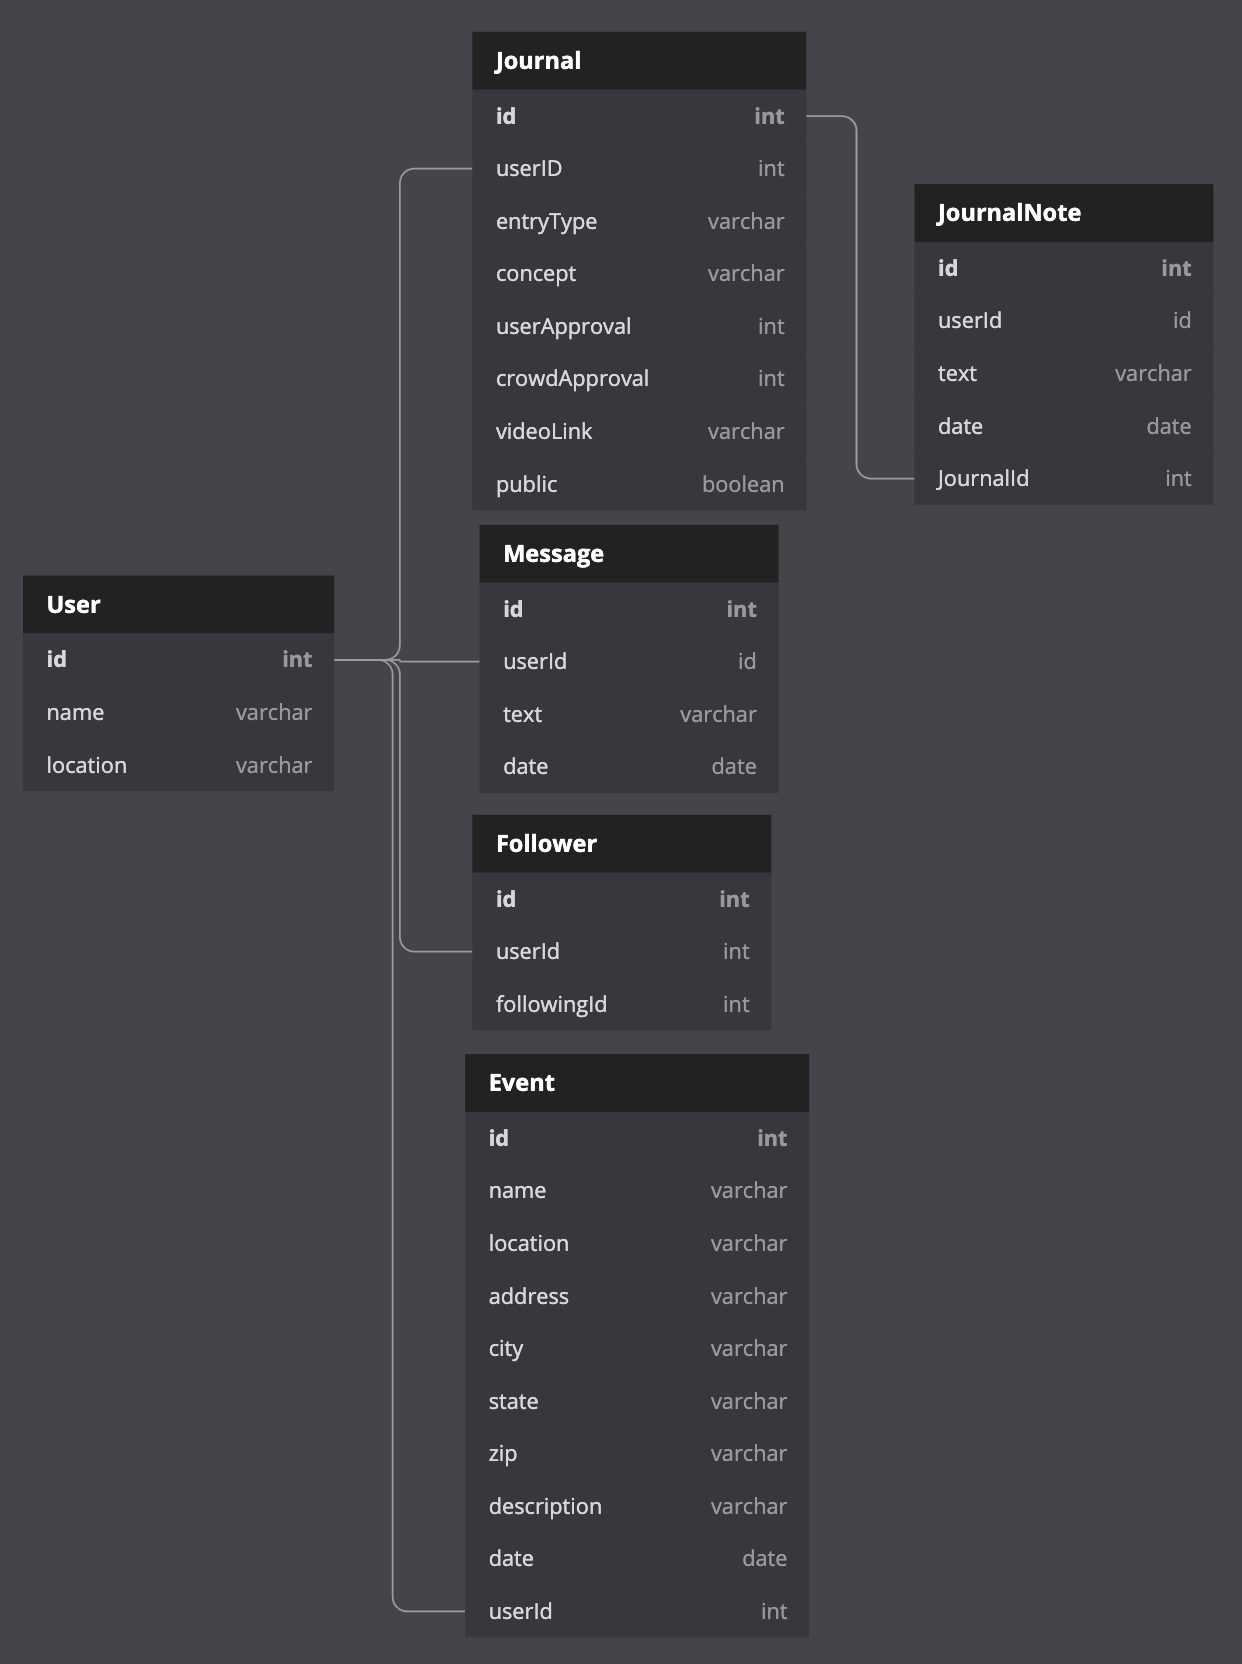
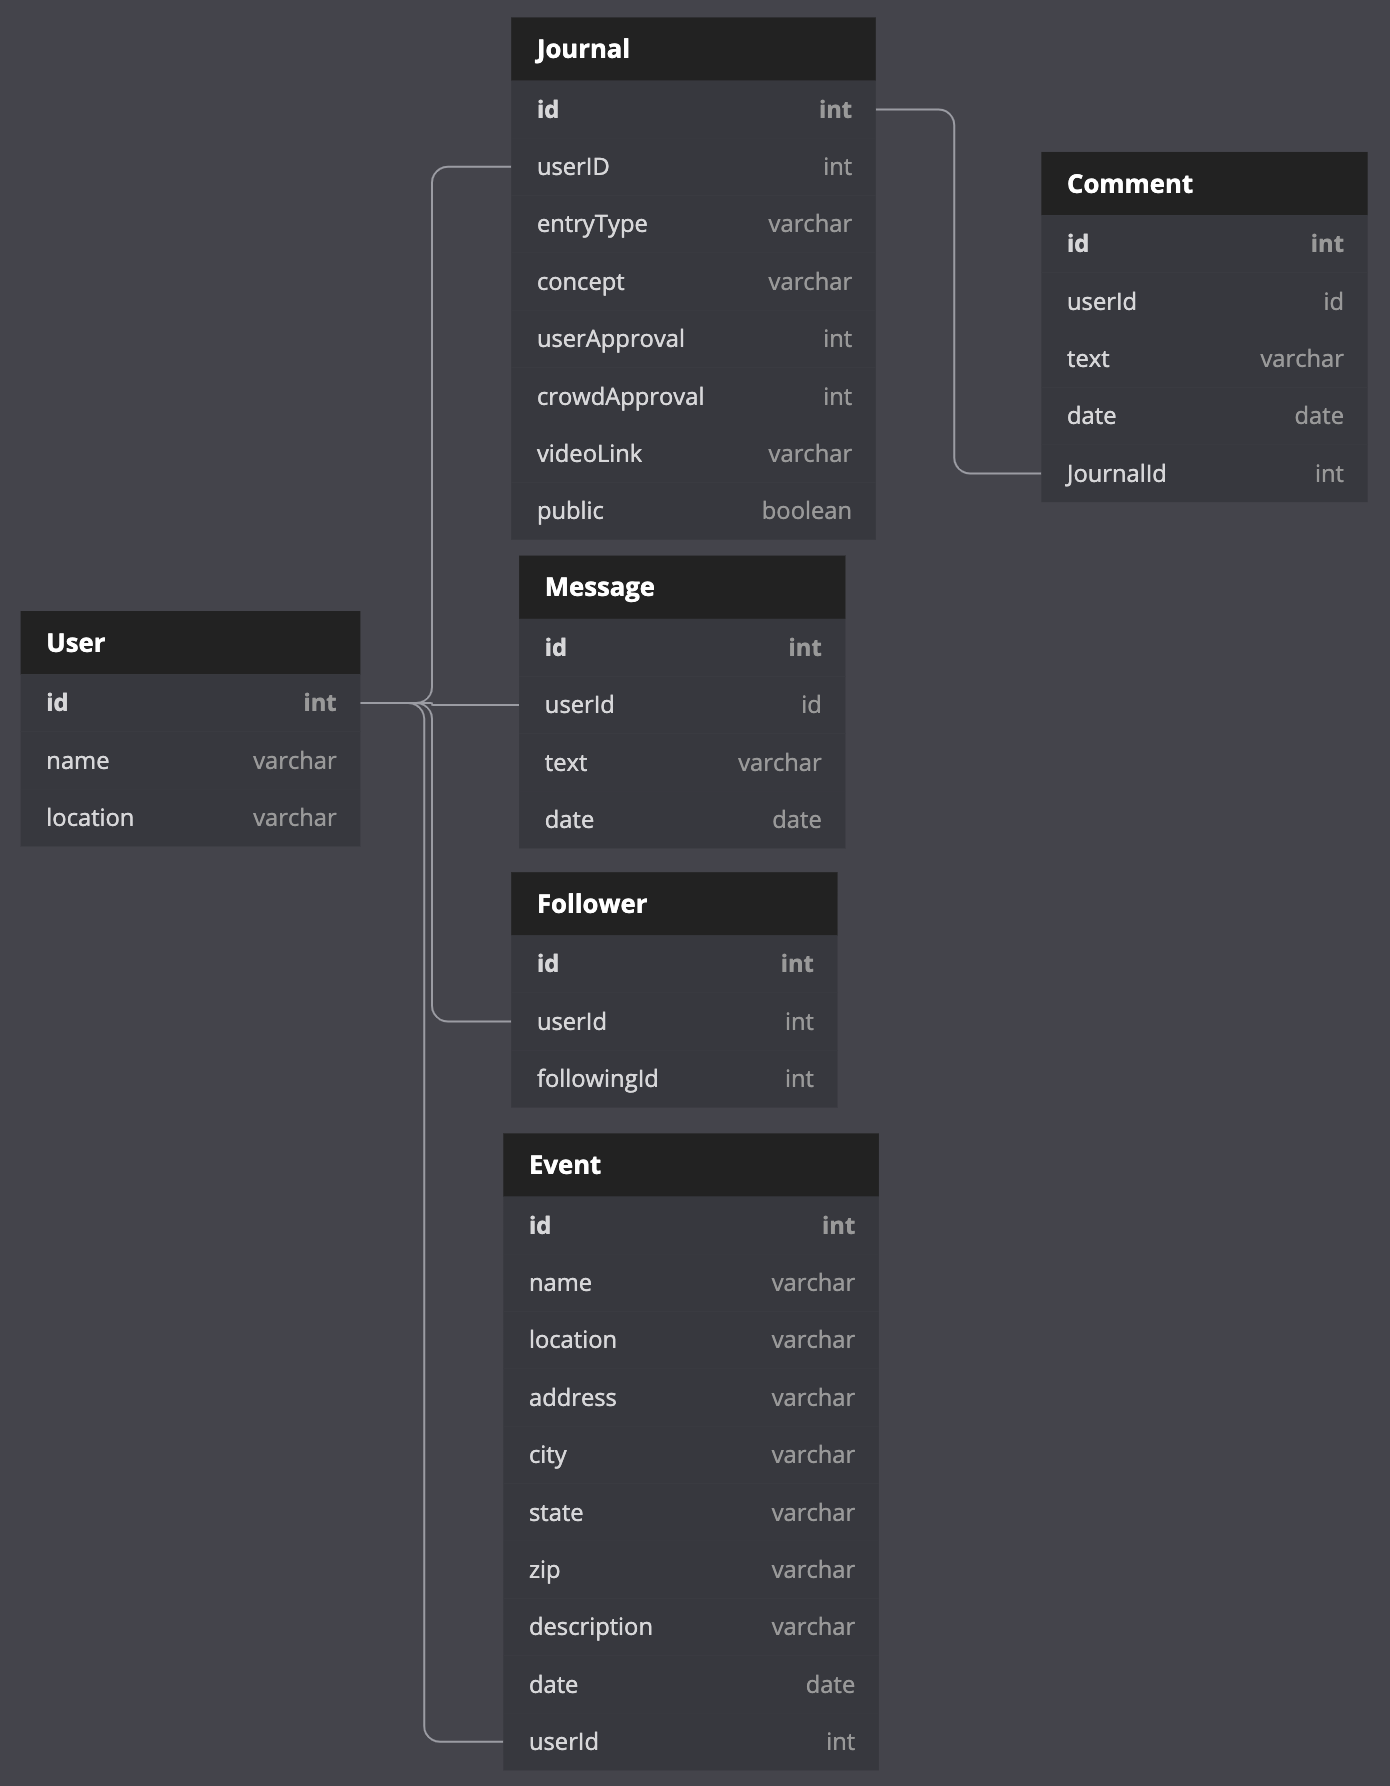
comments showing, showing too many times, though

diff --git a/src/components/journal/CommentForm.js b/src/components/journal/CommentForm.js
@@ -1,29 +1,30 @@
-import React, { useContext, useEffect, useState } from "react"
+import React, { useContext, useEffect, useRef, useState } from "react"
 import { useHistory, useParams } from "react-router-dom"
 import { Button, Form, Label, TextArea } from "semantic-ui-react"
 import { CommentContext } from "./CommentProvider"
 
 export const CommentForm = (props) => {
-    const {addComment, getCommentById, updateComment} = useContext(CommentContext)
+    const { addComment, getCommentById, updateComment } = useContext(CommentContext)
 
     const [comment, setComment] = useState({})
-    const [isLoading, setIsLoading] = useState(true)
+    const [isLoading, setIsLoading] = useState(true);
 
-    const { commentId } = useParams()
-    const history = useHistory()
+    const { commentId } = useParams();
+    const history = useHistory();
 
-    const HandleControlledInputChange = (event) => {
-        const newComment = {...comment}
+    const handleControlledInputChange = (event) => {
+        const newComment = { ...comment }
         newComment[event.target.name] = event.target.value
+        setComment(newComment)
     }
 
     useEffect(() => {
-        if (commentId){
+        if (commentId) {
             getCommentById(commentId)
-            .then(comment => {
-                setComment(comment)
-                setIsLoading(false)
-            })
+                .then(comment => {
+                    setComment(comment)
+                    setIsLoading(false)
+                })
         } else {
             setIsLoading(false)
         }
@@ -46,7 +47,7 @@ export const CommentForm = (props) => {
                     second: '2-digit'
                 }).format(Date.now())
             })
-            .then(() => history.push(`/journals/detail/${comment.id}`))
+            .then(() => history.push(`/comments/detail/${comment.id}`))
         } else {
             addComment({
                 userId: userId,
@@ -60,7 +61,7 @@ export const CommentForm = (props) => {
                     second: '2-digit'
                 }).format(Date.now())
             })
-            .then(() => history.push("comments"))
+            .then(() => history.push(`/comments`))
         }
     }
 
@@ -72,7 +73,7 @@ export const CommentForm = (props) => {
                     <Label htmlFort="text">Comment:</Label>
                     <TextArea type="text" id="commentText" name="text" required autoFocus className="form-control"
                         placeholder="Comment here..."
-                        onChange={HandleControlledInputChange}
+                        onChange={handleControlledInputChange}
                         defaultValue={comment.text} />
                 </div>
             </Form.Field>

diff --git a/src/components/ApplicationView.js b/src/components/ApplicationView.js
@@ -6,6 +6,8 @@ import { EventList } from "./event/EventList";
 import { EventProvider } from "./event/EventProvider";
 import { Home } from "./Home"
 import { CommentForm } from "./journal/CommentForm";
+import { CommentList } from "./journal/CommentList";
+import { CommentProvider } from "./journal/CommentProvider";
 import { JournalDetail } from "./journal/JournalDetails";
 import { JournalForm } from "./journal/JournalForm";
 import { JournalList } from "./journal/JournalList";
@@ -40,13 +42,15 @@ export const ApplicationViews = props => {
             </JournalProvider>
 
             <JournalProvider>
-                <CommentForm>
-                        <UserProvider>
-                            <Route exact path="/journals/detail/:journalId(\d+)">
-                                <JournalDetail />
-                            </Route>
-                        </UserProvider>
-                </CommentForm>
+                <CommentProvider>
+                    <UserProvider>
+                        <Route exact path="/journals/detail/:journalId(\d+)">
+                            <JournalDetail />
+                            <CommentList /> 
+                            <CommentForm />
+                        </Route>
+                    </UserProvider>
+                </CommentProvider>
             </JournalProvider>
 
             <JournalProvider>

diff --git a/src/components/journal/JournalDetails.js b/src/components/journal/JournalDetails.js
@@ -6,6 +6,7 @@ import { Card, Icon } from "semantic-ui-react"
 import ReactPlayer from "react-player"
 import { CommentContext } from "./CommentProvider"
 import {CommentForm} from './CommentForm'
+import { CommentList } from "./CommentList"
 
 export const JournalDetail = () => {
     const { getJournalById, deleteJournal } = useContext(JournalContext)
@@ -44,10 +45,6 @@ export const JournalDetail = () => {
             )
     })
 
-    const commentShow = (() => {
-        
-    })
-
     return (
         <>
         <Card className="journalEntry">
@@ -67,6 +64,7 @@ export const JournalDetail = () => {
         </Card>
         <Card className="comments">
             {CommentForm()}
+            {CommentList()}
         </Card>
         </>
     )

diff --git a/src/components/journal/CommentProvider.js b/src/components/journal/CommentProvider.js
@@ -9,7 +9,7 @@ export const CommentProvider = (props) => {
     const [comments, setComments] = useState([])
 
     const getComments = () => {
-        return fetch("http://localhost:8088/comments?_expand=user")
+        return fetch("http://localhost:8088/comments?_expand=journal&_expand=user")
         .then(res => res.json())
         .then(setComments)
     }
@@ -26,7 +26,7 @@ export const CommentProvider = (props) => {
     }
 
     const getCommentById = (id)=> {
-        return fetch(`http://localhost:8088/comments/${id}?_expand=user`)
+        return fetch(`http://localhost:8088/comments/${id}?_expand=journal&_expand=user`)
             .then(res => res.json())
     }
 

diff --git a/src/components/journal/CommentCard.js b/src/components/journal/CommentCard.js
@@ -1,8 +1,8 @@
 import React from "react"
 
-export const CommentCard = ({ comment, user }) => (
+export const CommentCard = ({ comment }) => (
     <section className="journal">
-        <p className="comment__user">{user.username}</p>
+        <p className="comment__user">{comment.user.username}</p>
         <p className="comment__text">{comment.text}</p>
         <p className="comment__date">{comment.date}</p>
     </section>
